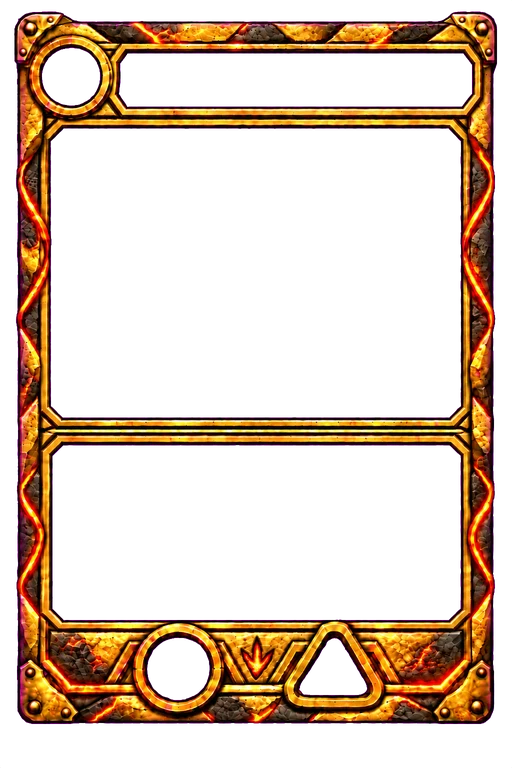
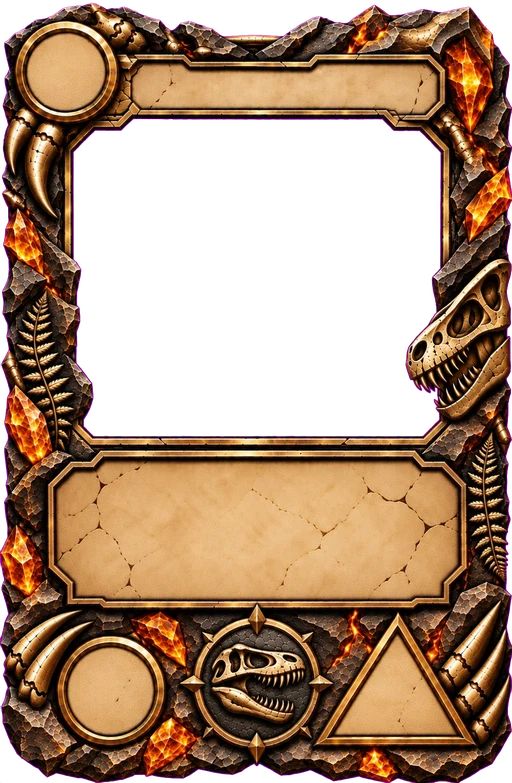
Marco de jefe: el último del juego, y con él se va el full art
Las cinco cartas de jefe iban a sangre desde el 18-09-2026 y estrenan marco
propio. Es lo mismo que pasó con las legendarias veinticuatro horas antes: un
marco dibujado y la carta entera se pelean por la misma carta —una la enmarca
y la otra le quita el marco— y ganó el marco. Decidido con las dos versiones
delante, a 268 px y a 83.

El marco comparte la anatomía de las criaturas y no su geometría, así que no
entra en `m-cria` y escribe la suya: la ventana mide el 40,9 % del alto contra
el 45,9 %, porque la banda arranca más abajo y la piedra del pie es más honda.
Y los cinco huecos vienen RELLENOS de papel, como los tres de soporte, así que
aquí no hay una sola cifra sobre hueco: las cinco tintas van oscuras y las tres
chapas se apagan.

Su caja es la más baja del juego —18,7 puntos contra los 20,9 de una criatura—
y con el cuerpo de las criaturas el Hesperosaurus perdía una línea. Su texto
baja a 9/10,2 y la caja se ensancha hasta el ancho entero del papel, que es lo
que le quita la cuarta línea. Comprobado sobre las 149: no se corta ningún
párrafo.

La maquinaria de la carta entera NO se borra. `esEntera()` se queda con la
lista vacía, que es el interruptor entero, y el velo, el fondo y el CSS siguen
en pie: es el molde del cosmético de «arte alternativo» que la tienda tiene
escrito, y encenderlo para una carta es añadir su id. El guardián vigila que
siga bastando con eso.

Claude-Session: https://claude.ai/code/session_01Q85Z2YG2ZkA5G7j4CyGifz

diff --git a/test/entera.test.js b/test/entera.test.js
@@ -1,14 +1,14 @@
 /**
- * La carta ENTERA: las cinco de jefe van a sangre, con la ilustración
- * cubriendo la carta y el marco reducido a un filete. Lo que se vigila es la
- * frontera —qué cartas lo son y qué cartas no— y que la clase sólo aparezca
- * con foto: una silueta SVG a sangre sería un rectángulo de color con un
- * nombre encima.
+ * La carta ENTERA —a sangre— y los marcos dibujados, que son lo que se pelea
+ * con ella: una la enmarca y la otra le quita el marco, y ninguna carta puede
+ * ser las dos cosas a la vez. Pasó dos veces: las legendarias dejaron de ir a
+ * sangre el 18-09-2026 y las cinco de jefe el 19, las dos al estrenar marco
+ * propio, y las dos veces ganó el marco.
  *
- * Las criaturas LEGENDARIAS lo fueron hasta el 18-09-2026 y dejaron de serlo
- * al estrenar marco propio: las dos cosas se pelean por la misma carta, una la
- * enmarca y la otra le quita el marco. Ese test está aquí para que no vuelvan
- * a ser las dos cosas a la vez sin que alguien lo decida.
+ * Así que HOY no hay ninguna carta entera, y eso es lo primero que se vigila.
+ * Lo segundo es que la maquinaria siga en pie: es el molde del cosmético de
+ * «arte alternativo» y encenderla es añadir un id a `ENTERAS`, así que el CSS
+ * y el velo tienen que sobrevivir intactos a quien pase por aquí a limpiar.
  */
 import { test } from 'node:test';
 import assert from 'node:assert/strict';
@@ -19,9 +19,9 @@ import { cartaHTML } from '../src/ui/render.js';
 
 const css = readFileSync(new URL('../carta.css', import.meta.url), 'utf8');
 
-test('son enteras exactamente las cinco cartas de jefe', () => {
+test('hoy NINGUNA carta va a sangre: las de jefe fueron las últimas', () => {
   for (const c of Object.values(CARTAS)) assert.equal(esEntera(c.id), false, c.id);
-  for (const c of Object.values(CARTAS_DE_JEFE)) assert.ok(esEntera(c.id), c.id);
+  for (const c of Object.values(CARTAS_DE_JEFE)) assert.equal(esEntera(c.id), false, c.id);
 });
 
 test('una legendaria del set NO es entera: lleva su marco', () => {
@@ -31,13 +31,22 @@ test('una legendaria del set NO es entera: lleva su marco', () => {
   assert.ok(html.includes('m-dino_legendaria'));
 });
 
-test('sin foto detectada la de jefe sale con su marco: la clase `entera` no se emite', () => {
-  // En node no hay índice de fotos, así que `hayFoto` es falso para todas.
+test('una carta de jefe lleva su marco y ni el velo ni el fondo de la carta entera', () => {
   const html = cartaHTML('jefe_saurophaganax', { variante: 'col' });
-  assert.ok(!/class="[^"]*\bentera\b/.test(html), 'la clase entera sólo va con foto');
-  assert.ok(html.includes('m-dino_jefe'), 'el marco de jefe sigue puesto de reserva');
-  assert.ok(html.includes('c-velo'), 'el velo viaja siempre: la clase puede llegar con la foto');
-  assert.ok(html.includes('c-fondo'), 'el fondo desenfocado también');
+  assert.ok(!/class="[^"]*\bentera\b/.test(html));
+  assert.ok(html.includes('m-dino_jefe'), 'el marco de jefe, que desde el 19-09-2026 no es de reserva');
+  assert.ok(!html.includes('c-velo'), 'el velo sólo viaja en las que pueden ir a sangre, y no hay ninguna');
+  assert.ok(!html.includes('c-fondo'));
+});
+
+test('la maquinaria de la carta entera sigue entera, que es el molde del cosmético', () => {
+  // Encenderla para una carta es añadir su id a `ENTERAS`: si alguien borra el
+  // emisor o el CSS creyendo que sobra, esa línea deja de bastar.
+  const art = readFileSync(new URL('../src/ui/art.js', import.meta.url), 'utf8');
+  assert.match(art, /const ENTERAS = new Set\(\)/, 'la lista vacía es el interruptor');
+  const render = readFileSync(new URL('../src/ui/render.js', import.meta.url), 'utf8');
+  assert.ok(render.includes('c-velo') && render.includes('c-fondo'), 'cartaHTML sigue sabiendo emitirlos');
+  assert.ok(render.includes("esEntera(cardId) && hayFoto(cardId) ? ' entera'"), 'y clasesCarta, ponerla');
 });
 
 test('carta.css tiene la geometría de la carta entera y apaga el marco dibujado', () => {
@@ -61,14 +70,15 @@ test('el marco de criatura trae sus huecos dentro: sus chapas se apagan', () => 
   assert.match(css, /\.carta\.con-marco\.m-cria \.st-a\.mermado b\s*\{\s*color:/);
 });
 
-test('las CUATRO rarezas de criatura llevan el marco nuevo, y el jefe no', () => {
+test('las CUATRO rarezas de criatura comparten geometría, y el jefe tiene la suya', () => {
   for (const [id, clase] of [['stegosaurus', 'm-dino_comun'], ['allosaurus', 'm-dino_rara'],
     ['torvosaurus', 'm-dino_epica'], ['tyrannosaurus', 'm-dino_legendaria']]) {
     const html = cartaHTML(id, { variante: 'col' });
     assert.ok(html.includes(clase), id);
     assert.ok(html.includes('m-cria'), `${id} sin la clase que comparte la geometría`);
   }
-  assert.ok(!cartaHTML('jefe_saurophaganax', { variante: 'col' }).includes('m-cria'));
+  assert.ok(!cartaHTML('jefe_saurophaganax', { variante: 'col' }).includes('m-cria'),
+    'el jefe no: su ventana es más baja porque la banda arranca abajo y la piedra del pie es más honda');
   assert.ok(!cartaHTML('trampa', { variante: 'col' }).includes('m-cria'), 'las de soporte tampoco');
   // El aro del coste es lo único que cambia de una rareza a otra, así que cada
   // una escribe el suyo —sola o compartiendo regla con la que coincide—.
@@ -100,4 +110,17 @@ test('las tres familias de soporte llevan su marco, con el aro del coste dentro'
   const bloque = css.match(/\.carta\.con-marco\.no-dino\s*\{([^}]*)\}/)[1];
   assert.ok(Number(bloque.match(/--ven-y0:\s*([\d.]+)%/)[1]) < 6, 'la ventana de soporte arranca arriba');
   assert.ok(Number(bloque.match(/--ven-alto:\s*([\d.]+)%/)[1]) > 50, 'y es más alta que la de una criatura');
+});
+
+test('el marco de jefe trae sus cinco huecos en PAPEL: chapas apagadas y tinta oscura', () => {
+  assert.match(css, /\.carta\.con-marco\.m-dino_jefe\s*\{[^}]*--ven-alto:\s*40\.9%/);
+  assert.match(css, /\.carta\.con-marco\.m-dino_jefe \.c-chapa\s*\{\s*display:\s*none/);
+  // Ni una cifra cae sobre hueco aquí, así que las cinco tintas van oscuras:
+  // es lo contrario que en las criaturas y lo mismo que en las de soporte.
+  assert.match(css, /\.carta\.con-marco\.m-dino_jefe \.c-genero\s*\{\s*color:\s*#38200c/);
+  assert.match(css, /\.carta\.con-marco\.m-dino_jefe \.c-hab\s*\{\s*color:\s*#5d2d08/);
+  assert.match(css, /\.carta\.con-marco\.m-dino_jefe \.st-a b[^{]*\{\s*color:\s*#2b1706/);
+  // Y sin chapa que cambiar, los dos estados del Ataque los cuenta el color.
+  assert.match(css, /\.carta\.con-marco\.m-dino_jefe \.st-a\.mejorado b\s*\{\s*color:/);
+  assert.match(css, /\.carta\.con-marco\.m-dino_jefe \.st-a\.mermado b\s*\{\s*color:/);
 });

diff --git a/carta.css b/carta.css
@@ -157,6 +157,59 @@
 .carta--visor.con-marco.m-cria .c-cuerpo { gap: 3px; }
 .carta--visor.con-marco.m-cria .c-hab { line-height: 18px; }
 
+/* ============================================== el marco del JEFE
+   El último del juego (19-09-2026) y el que cierra el set: hasta ese día las
+   cinco cartas de jefe iban A SANGRE, y como ya pasó con las legendarias un
+   día antes, el marco y la carta entera se pelean por la misma carta y ganó el
+   marco. Lo que queda de aquello está en `esEntera()`, con la lista vacía.
+
+   Comparte la anatomía de las criaturas —banda de género, ventana, caja, aro
+   del coste, círculo del Ataque y triángulo de la Vida— y no su geometría: la
+   ventana es más baja (40,9 % contra 45,9 %) porque la banda arranca más
+   abajo y la piedra del pie es más honda, así que NO entra en `m-cria`.
+
+   Y lo que de verdad lo separa: **los cinco huecos vienen RELLENOS de papel**,
+   como los tres de soporte y al revés que las criaturas. Así que aquí las
+   cinco tintas van oscuras —no hay una sola cifra sobre hueco— y las tres
+   chapas se apagan igual, porque el aro, el círculo y el triángulo ya están
+   dibujados.
+
+   La herramienta sólo mide un hueco en este marco, la ventana; la banda, la
+   caja y las tres figuras se midieron sobre el papel. Las dos cifras van por
+   su centro de MASA y no por el de su caja, como en las criaturas: en el
+   triángulo son once décimas de diferencia y se ve. */
+.carta.con-marco.m-dino_jefe {
+  --ban-x0: 26.2%;  --ban-x1: 15.2%;  --ban-y0: 8.45%;  --ban-al: 5.8%;
+  --ven-x0: 14.2%;  --ven-x1: 13.8%;  --ven-y0: 15.1%;  --ven-alto: 40.9%;
+  --pla-x0: 14.8%;  --pla-x1: 13.5%;  --pla-y0: 58.8%;  --pla-y1: 22.5%;
+  --cos-cx: 12.92%; --cos-cy: 9.19%;
+  --atq-x: 21.49%;  --atq-y: 88.05%;  --vid-x: 76.58%;  --vid-y: 89.02%;
+}
+.carta.con-marco.m-dino_jefe .c-chapa { display: none; }
+.carta.con-marco.m-dino_jefe .c-cuerpo { padding: 2% 4% 1.5%; }
+/* Las cinco tintas, todas sobre papel. */
+.carta.con-marco.m-dino_jefe .c-genero {
+  color: #38200c; text-shadow: 0 1px 0 rgba(255, 247, 225, .5);
+}
+.carta.con-marco.m-dino_jefe .c-hab { color: #5d2d08; }
+.carta.con-marco.m-dino_jefe .c-nombre { color: #38200c; }
+.carta.con-marco.m-dino_jefe .c-texto { color: #2e2113; }
+.carta.con-marco.m-dino_jefe .c-coste,
+.carta.con-marco.m-dino_jefe .st-a b,
+.carta.con-marco.m-dino_jefe .st-v b { color: #2b1706; }
+.carta.con-marco.m-dino_jefe .st-v.herido b { color: #8d2410; }
+.carta.con-marco.m-dino_jefe .st-a.mejorado b { color: #1d5a1b; }
+.carta.con-marco.m-dino_jefe .st-a.mermado b { color: #8d2410; }
+/* Su caja es la más baja del juego —18,7 puntos contra los 20,9 de una
+   criatura— porque la piedra del pie se lleva tres puntos más. Con el cuerpo
+   de siempre, las cinco se cortaban por abajo. */
+.carta--visor.con-marco.m-dino_jefe .c-texto {
+  font: 400 10.5px/12px 'Libre Baskerville', Georgia, serif;
+}
+.carta--visor.con-marco.m-dino_jefe .c-texto.largo { font-size: 9px; line-height: 10.2px; }
+.carta--visor.con-marco.m-dino_jefe .c-cuerpo { gap: 3px; }
+.carta--visor.con-marco.m-dino_jefe .c-hab { line-height: 18px; }
+
 /* El especular ya viene pintado en el PNG; el de CSS encima lo emborronaba. */
 .carta.con-marco::before { background: none; }
 

diff --git a/src/ui/art.js b/src/ui/art.js
@@ -4,7 +4,7 @@
 // más información honesta que la silueta. Ninguna lleva plumas — ningún taxón de
 // este set tiene evidencia tegumentaria que las respalde (§2 de la spec).
 
-import { carta, CARTAS_DE_JEFE } from '../data/cards.js';
+import { carta } from '../data/cards.js';
 
 const SILUETAS = {
   // Terópodo grande: cuerpo horizontal, cráneo profundo, cola contrapesada.
@@ -296,18 +296,26 @@ export const focoDe = (cardId) => focos.get(cardId) ?? null;
 /**
  * Cartas ENTERAS —a sangre—: la ilustración cubre la carta y el marco se
  * reduce a un filete, con el nombre y la habilidad sobre velos translúcidos.
- * Son las CINCO DE JEFE y nada más. Las legendarias lo fueron hasta el
- * 18-09-2026, y dejaron de serlo cuando estrenaron marco propio: las dos cosas
- * se pelean por la misma carta —una la enmarca y la otra le quita el marco— y
- * el marco ganó porque la rareza se lee y las cifras tienen dónde apoyarse.
- * Las de jefe se quedan a sangre porque viven fuera del set y no tienen rareza
- * que enseñar.
+ *
+ * **Hoy no hay ninguna**, y la lista vacía es el interruptor entero. Lo fueron
+ * las legendarias hasta el 18-09-2026 y las cinco de jefe hasta el 19, y las
+ * dos veces se fue por lo mismo: un marco dibujado y la carta a sangre se
+ * pelean por la misma carta —una la enmarca y la otra le quita el marco— y
+ * ganó el marco, porque la rareza se lee y las cifras tienen dónde apoyarse.
+ * Con el juego de marcos completo no queda carta sin marco propio.
+ *
+ * Lo que sigue en pie es la MAQUINARIA: `clasesCarta()` pone la clase,
+ * `cartaHTML()` emite el velo y el fondo, y `carta.css` mueve la geometría.
+ * Es el molde del cosmético de «arte alternativo» que la tienda tiene escrito
+ * —una versión a sangre que se equipa—, y volver a encenderla para una carta
+ * es añadir su id aquí. Por eso no se borró.
  *
  * La clase sólo se pone cuando HAY foto (`render.js` y `refrescarFotos`): una
  * silueta SVG a sangre sería un rectángulo de color, así que sin foto la carta
  * sale con su marco de siempre.
  */
-export const esEntera = (cardId) => Boolean(CARTAS_DE_JEFE[cardId]);
+const ENTERAS = new Set();
+export const esEntera = (cardId) => ENTERAS.has(cardId);
 
 /**
  * Mira una sola vez qué ilustraciones hay servidas. No rechaza nunca: no tener

diff --git a/sw.js b/sw.js
@@ -17,7 +17,7 @@
 //
 // Al cambiar cualquier fichero servido hay que subir VERSION: activa la limpieza
 // de las cachés anteriores.
-const VERSION = 'dinowar-v149';
+const VERSION = 'dinowar-v150';
 const ESENCIALES = [
   './', './index.html', './style.css', './piel.css', './carta.css', './efectos.css', './manifest.json', './src/main.js',
   // Lo primero que se ve. La marca y la pantalla de carga tienen que estar

diff --git a/CLAUDE.md b/CLAUDE.md
@@ -1416,10 +1416,10 @@ que el resto de gestos.
 ## Los marcos de carta: la geometría la decide el PNG
 
 Ocho marcos en `assets/marcos/`: cinco de criatura —cuatro rarezas y el jefe— y
-uno por familia de soporte, sin rareza. **Las cuatro rarezas de criatura
-estrenaron un juego nuevo el 18 y el 19-09-2026, y las tres familias de soporte
-el 19**, y tienen sus dos secciones aquí abajo; **el único que sigue con el
-dibujo viejo es el del jefe**.
+uno por familia de soporte, sin rareza. **Los ocho se rehicieron entre el 18 y
+el 19-09-2026**, en tres tandas —la legendaria primero, las otras tres rarezas
+detrás, y el mismo día las tres de soporte y el jefe— y cada tanda tiene su
+sección aquí abajo. No queda ninguno del dibujo viejo.
 Los originales son PNG de 1024×1536 con los huecos en magenta `#FF00FF`, fuera
 del repositorio; `python tools/marcos.py escribir` los keyea a WebP y **mide
 los huecos**, y esos números son los que van en `carta.css`. No se estiman.
@@ -1510,8 +1510,8 @@ piedra sin oro** en la común, **cristal azul** en la rara, **amatista** en la
 un rombo encendido, y por eso se cambió: el oro es lo que distingue a la de
 arriba.
 
-Queda uno en este estilo: el del JEFE. Las tres familias de soporte llegaron el
-19-09-2026 y tienen su sección aquí abajo.
+Las tres familias de soporte y el jefe llegaron el 19-09-2026 y tienen sus dos
+secciones aquí abajo.
 
 ### El marco del soporte: clima, evento y recurso, con emblema en vez de rareza
 
@@ -1566,36 +1566,86 @@ Y tres cosas de la medida, que es donde estuvo el trabajo:
   Crecida estacional —112 letras, el texto más largo del set— se cortaba.
   Comprobado sobre las 144: ninguna desborda.
 
-### La carta ENTERA: las cinco de jefe van a sangre
+### El marco del jefe: el que cierra el juego, y el que se llevó el full art
 
-Desde el 18-09-2026 (decisión del autor, con las cartas de Crown War delante:
-«el arte de la carta, bordes, full art es bastante bueno, profesional,
-pulcro»), **las cinco cartas de jefe** se pintan enteras:
-la ilustración cubre la carta, el marco de latón se apaga y en su sitio hay un
-filete de bronce, el nombre va sobre un velo oscuro y la habilidad en una caja
-de cristal translúcido apoyada en las chapas. Es la variante «full art» de
-cualquier TCG.
+El último (19-09-2026). Hasta ese día las cinco cartas de jefe iban A SANGRE,
+y pasó lo mismo que con las legendarias veinticuatro horas antes: **un marco
+dibujado y la carta entera se pelean por la misma carta** —una la enmarca y la
+otra le quita el marco— y ganó el marco. Decidido por el autor con las dos
+versiones delante, a 268 px y a 83. Lo que queda del full art está en la
+sección de abajo, que ya no describe ninguna carta.
 
-**Las criaturas LEGENDARIAS lo fueron el mismo día y dejaron de serlo**, al
-estrenar marco propio —y al día siguiente lo estrenaron las otras tres
-rarezas—: las dos cosas se pelean por la misma carta —una la
-enmarca y la otra le quita el marco— y ganó el marco, porque la rareza se lee y
-las cifras tienen dónde apoyarse. Las de jefe se quedan a sangre porque viven
-fuera del set y no tienen rareza que enseñar. `test/entera.test.js` guarda esa
-frontera. Lo que se decidió al hacerla:
+Comparte la ANATOMÍA de las criaturas —banda de género, ventana, caja, aro del
+coste, círculo del Ataque y triángulo de la Vida— y no su geometría, así que
+**no entra en `m-cria` y escribe la suya**: la ventana mide el 40,9 % del alto
+contra el 45,9 %, porque la banda arranca más abajo (8,45 % contra 6,4 %) y la
+piedra del pie es más honda.
+
+Y lo que de verdad lo separa de los cuatro de criatura: **los cinco huecos
+vienen RELLENOS de papel**, como los tres de soporte. Así que aquí no hay una
+sola cifra sobre hueco y **las cinco tintas van oscuras** —género, título,
+texto, coste y las dos cifras—; las tres chapas se apagan igual, porque el
+aro, el círculo y el triángulo ya están dibujados, y sin chapa que cambiar los
+dos estados del Ataque los cuenta el color.
+
+Tres cosas de la medida:
+
+- **La herramienta sólo mide un hueco aquí**, la ventana. La banda, la caja y
+  las tres figuras se midieron sobre el papel, con el mismo recorte por color
+  que en los de soporte.
+- **Las dos cifras van por su centro de MASA y no por el de su caja**, como en
+  las criaturas: en el triángulo son once décimas y se ven.
+- **Su caja es la más baja del juego** —18,7 puntos de alto contra los 20,9 de
+  una criatura y los 22,8 de una de soporte— porque la piedra del pie se lleva
+  tres puntos más. Con el cuerpo de siempre las cinco se cortaban por abajo, y
+  aun con el de las criaturas (10,5/12 px) el Hesperosaurus seguía perdiendo
+  una línea: su texto baja a **9/10,2** y la caja se ensancha hasta el ancho
+  entero del papel (14,8 % a 86,5 %), que es lo que le quita la cuarta línea.
+  Comprobado sobre las 149 cartas —las 144 del set más las cinco de jefe—: no
+  se corta ningún párrafo.
+
+Y un defecto que ya estaba y que el jefe hereda al dejar el full art: en el
+visor, el título de una línea pierde uno o dos píxeles de las colas por abajo,
+porque `line-height` es 18 px y la caja del glifo mide 19 o 20. Le pasa a 72
+cartas del set desde que existen estos marcos y ahora también a las dos de
+jefe con título largo. Se arregla subiendo el `line-height`, y eso le quita
+sitio al texto: en el Hesperosaurus no hay de dónde, así que se deja como el
+resto hasta que se toque para todos a la vez.
+
+### La carta ENTERA: existió dos días y hoy no la lleva nadie
+
+La variante «full art» de cualquier TCG: la ilustración cubre la carta, el
+marco de latón se apaga y en su sitio hay un filete de bronce, el nombre va
+sobre un velo oscuro y la habilidad en una caja de cristal translúcido apoyada
+en las chapas. La pidió el autor el 18-09-2026 con las cartas de Crown War
+delante —«el arte de la carta, bordes, full art es bastante bueno, profesional,
+pulcro»—.
+
+**Y se fue por el mismo sitio dos veces.** La llevaron las criaturas
+legendarias, que la perdieron ese mismo día al estrenar marco propio; y las
+cinco de jefe, que la perdieron el 19 al estrenar el suyo. Un marco dibujado y
+la carta a sangre **se pelean por la misma carta** —una la enmarca y la otra le
+quita el marco— y las dos veces ganó el marco, porque la rareza se lee y las
+cifras tienen dónde apoyarse. Con el juego de marcos completo no queda carta
+sin marco propio, así que **hoy `esEntera()` no devuelve ninguna**.
+
+Lo que NO se borró es la maquinaria, y el motivo está en el último punto de
+esta lista: es el molde del cosmético de «arte alternativo». Encenderla para
+una carta es añadir su id a `ENTERAS` en `art.js`, una línea, y
+`test/entera.test.js` vigila que siga bastando con eso — que nadie pase por
+aquí a limpiar «código muerto» y se lleve el emisor o el CSS. Lo que se
+decidió al hacerla, y que sigue valiendo el día que vuelva:
 
 - **Es una clase, `entera`, y no un marco nuevo.** `marcoCarta()` emite lo
   mismo; `carta.css` mueve la GEOMETRÍA de los huecos —la ventana a la carta
   entera, la banda más ancha, la caja abajo, las chapas de cifras al 90 %— y
   el mismo `<span class="c-marco">` pinta el filete con un degradado
   recortado a anillo por dos máscaras. Cero ficheros nuevos, y
-  `test/marcos.test.js` sigue igual: el marco de jefe existe y se usa de
-  reserva.
-- **Sólo con foto.** `esEntera()` en `art.js` dice qué cartas lo son —hoy, las
-  de `CARTAS_DE_JEFE` y nada más—; `clasesCarta()` pone la clase si además
-  `hayFoto()`, y `refrescarFotos()` la añade cuando el índice llega después de
-  pintar. Una silueta SVG a sangre sería un rectángulo de color con un nombre
-  encima.
+  `test/marcos.test.js` sigue igual.
+- **Sólo con foto.** `esEntera()` en `art.js` dice qué cartas lo son —hoy,
+  ninguna—; `clasesCarta()` pone la clase si además `hayFoto()`, y
+  `refrescarFotos()` la añade cuando el índice llega después de pintar. Una
+  silueta SVG a sangre sería un rectángulo de color con un nombre encima.
 - **El velo del nombre es un `<span class="c-velo">` propio**, no
   `.c-arte::after`: ese pseudoelemento ya es el brillo de las legendarias en la
   colección y el sobre. Viaja en toda carta que PUEDA ser entera, y sin la
@@ -1618,18 +1668,18 @@ frontera. Lo que se decidió al hacerla:
   quedaron al 87 %, montadas en el canto, y no se vio en el banco a 268 px:
   se vio en el móvil, donde la ficha pinta la carta a 600. Quien mueva una
   chapa mueve las dos parejas.
-- **Es también el molde del cosmético de «arte alternativo»**: el mismo
-  mecanismo —una clase que cambia la geometría sin tocar la composición— vale
-  para vender una versión a sangre de cualquier carta el día que la tienda lo
-  quiera. Hoy no se vende nada: es lo que distingue a lo más raro del set,
-  que es lo que el holográfico hacía antes de quitarse.
+- **Es el molde del cosmético de «arte alternativo»**, y desde el 19-09-2026 es
+  lo ÚNICO que es: el mismo mecanismo —una clase que cambia la geometría sin
+  tocar la composición— vale para vender una versión a sangre de cualquier
+  carta el día que la tienda lo quiera. Ya no distingue a nada por sí sola,
+  porque no la lleva ninguna carta; lo que distingue hoy a cada rareza es el
+  MATERIAL de su marco.
 
 Lo que se miró al lado de Crown War y NO se copió: su estilo pintado tipo
 anime —el fotorrealismo es lo que nos distingue—, su tipografía sin sistema, y
 que la rareza no se lea en la carta. La ventana grande para TODAS las cartas
 —que era lo que quedaba de aquello— se empezó por el marco legendario de aquí
-arriba; hoy lo llevan las cuatro rarezas de criatura y las tres familias de
-soporte, y falta el del jefe.
+arriba y hoy la llevan los ocho.
 
 Y una cosa que se midió antes de descartarla: **llevar la carta entera a todo
 el set no funciona.** Las criaturas ganan en el visor, sí, pero a 83 px el
